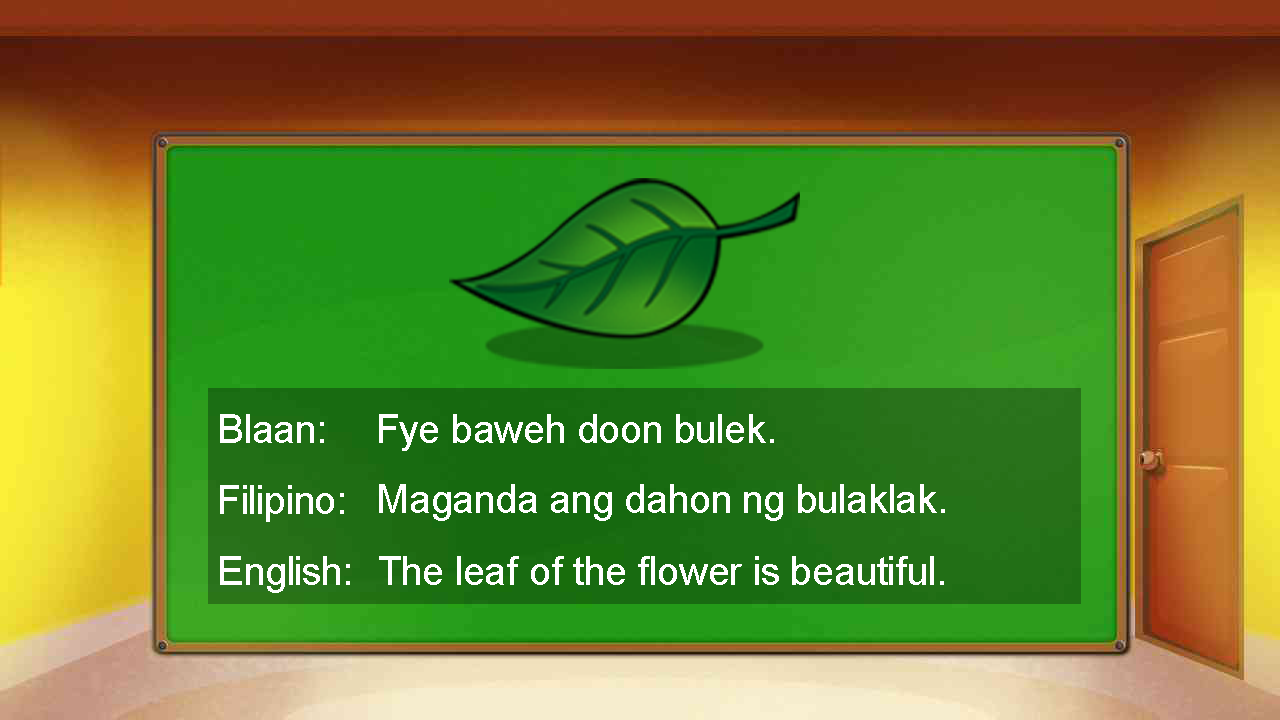
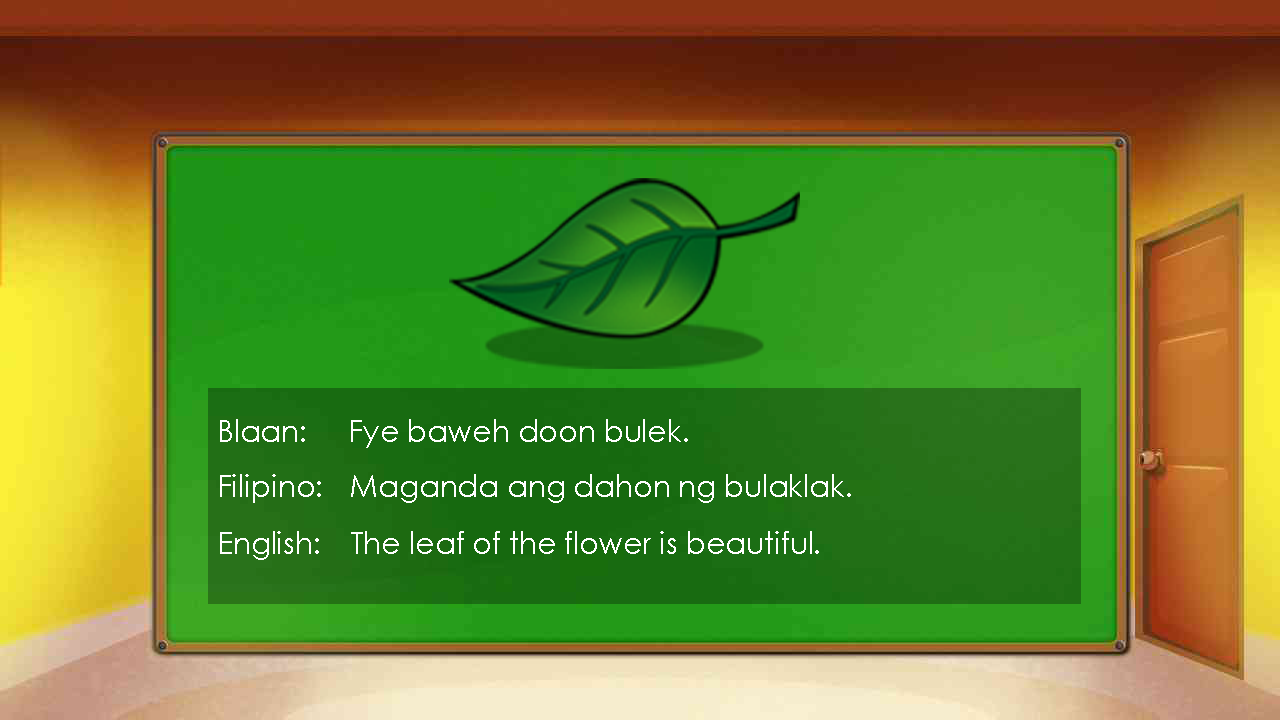
modification of letter sentences font

Changed region(s): [[0.1562, 0.6722, 0.75, 0.825], [0.2812, 0.5806, 0.5938, 0.6417], [0.1562, 0.5806, 0.25, 0.6111]]

diff --git a/App.js b/App.js
@@ -160,7 +160,7 @@ const RootStack = StackNavigator(
 
   },
   {
-    initialRouteName: 'mainMenu',
+    initialRouteName: 'home',
   }
 );
 
